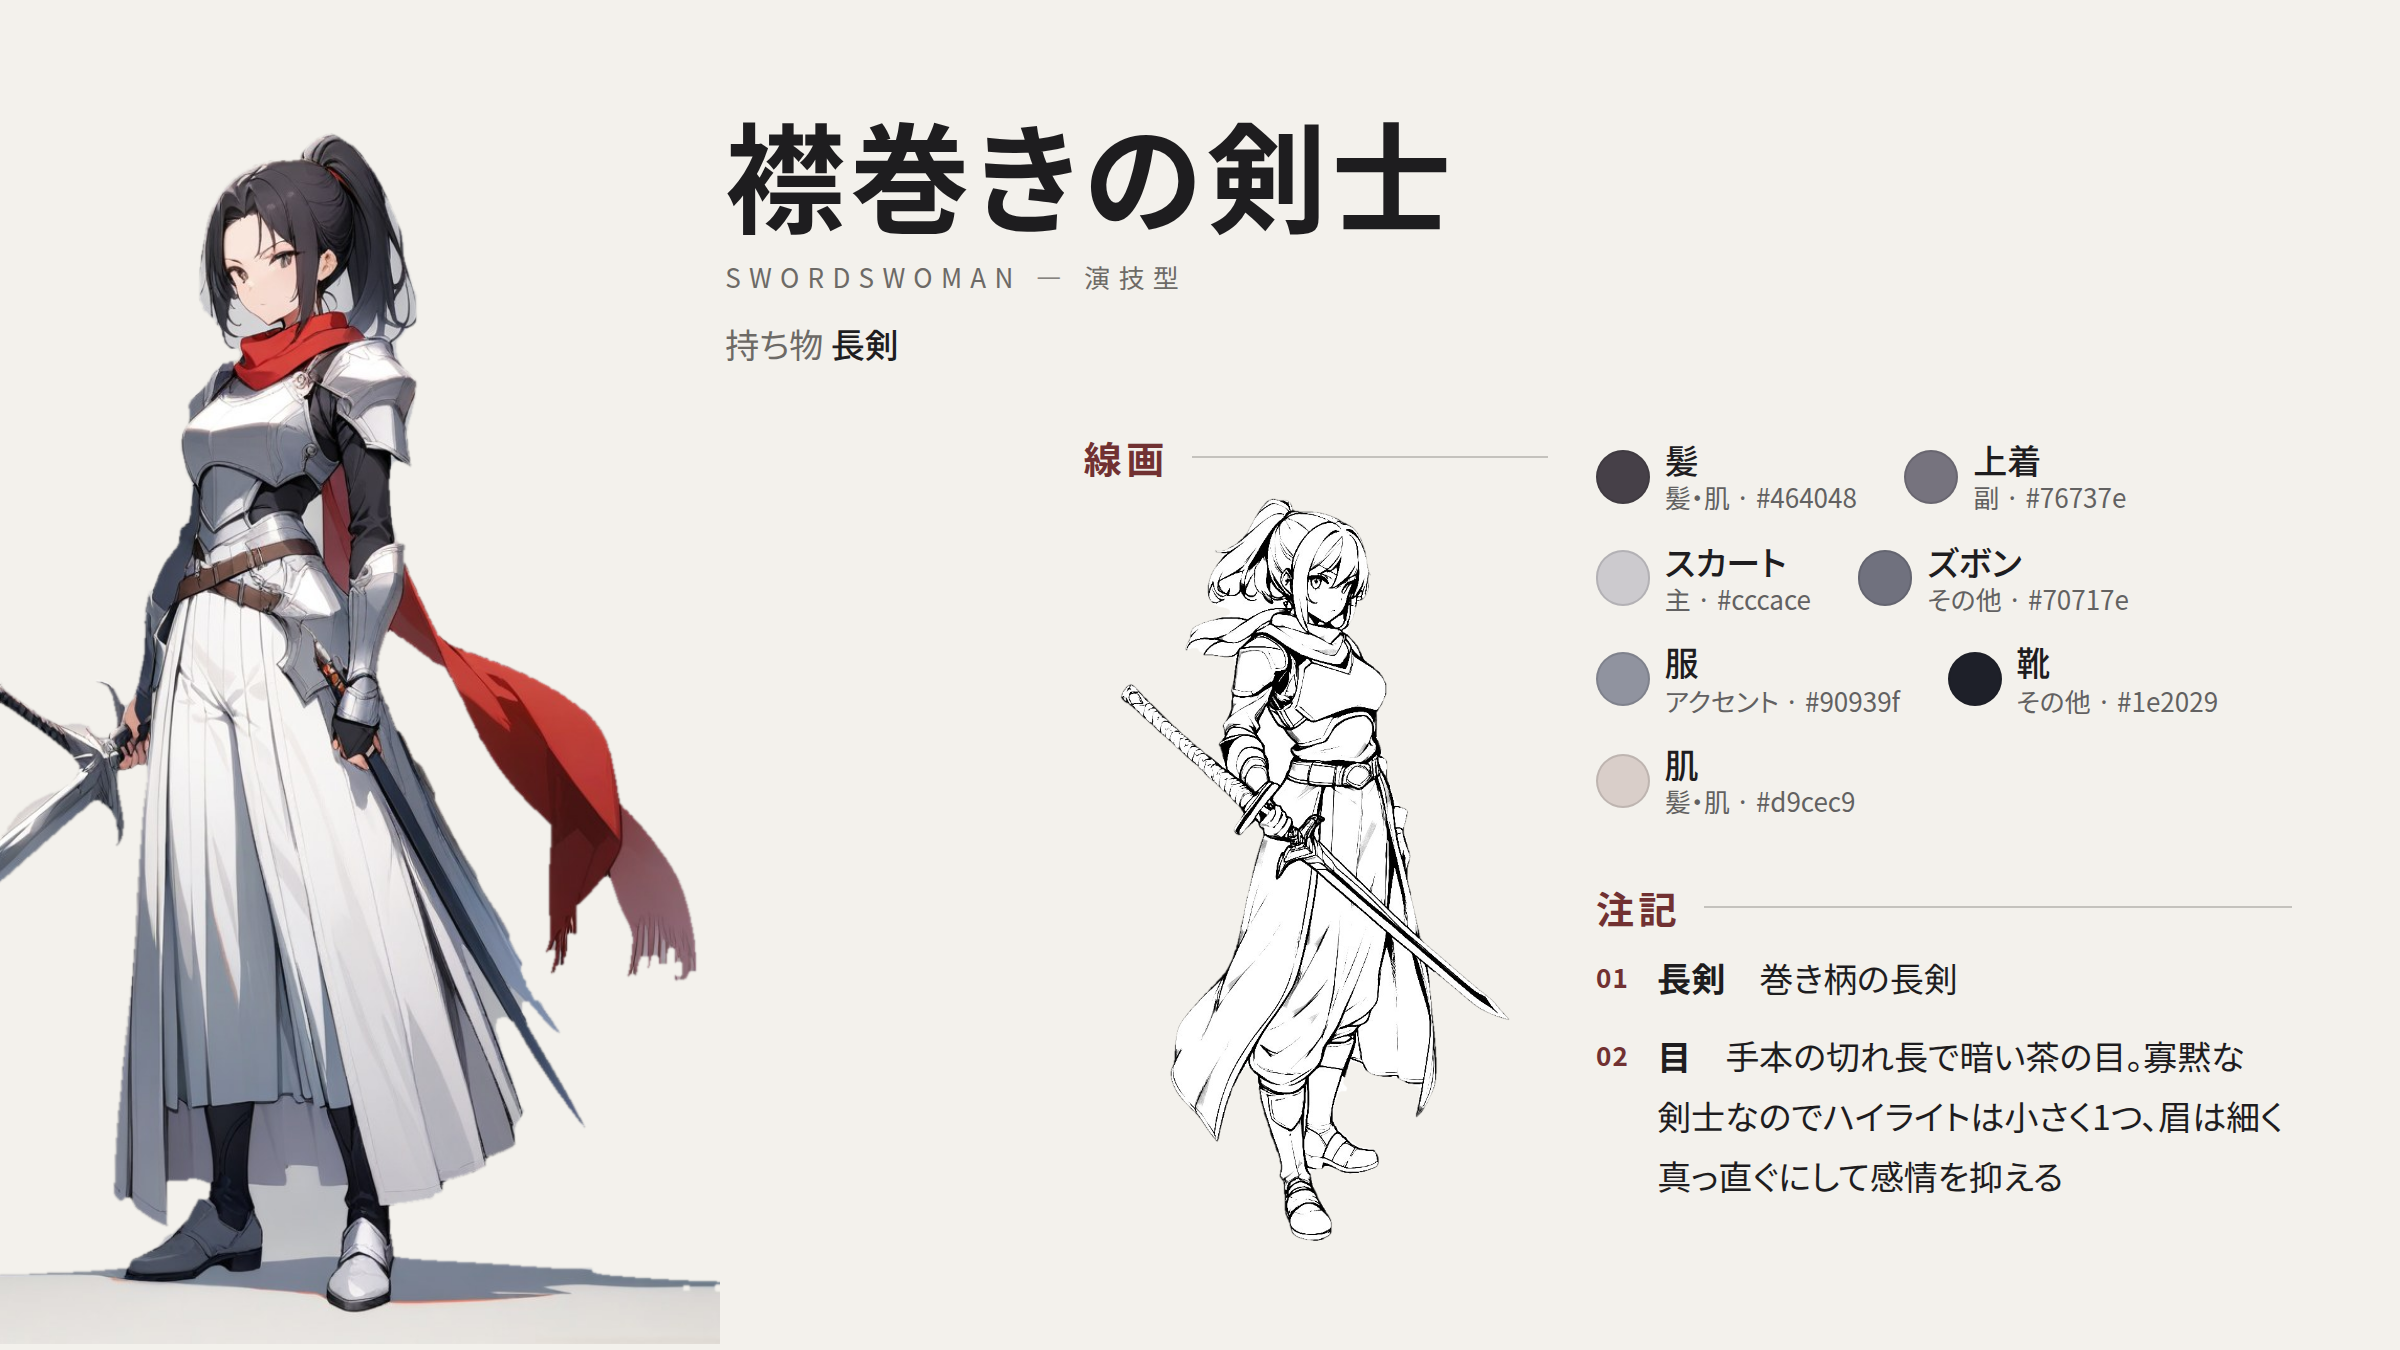
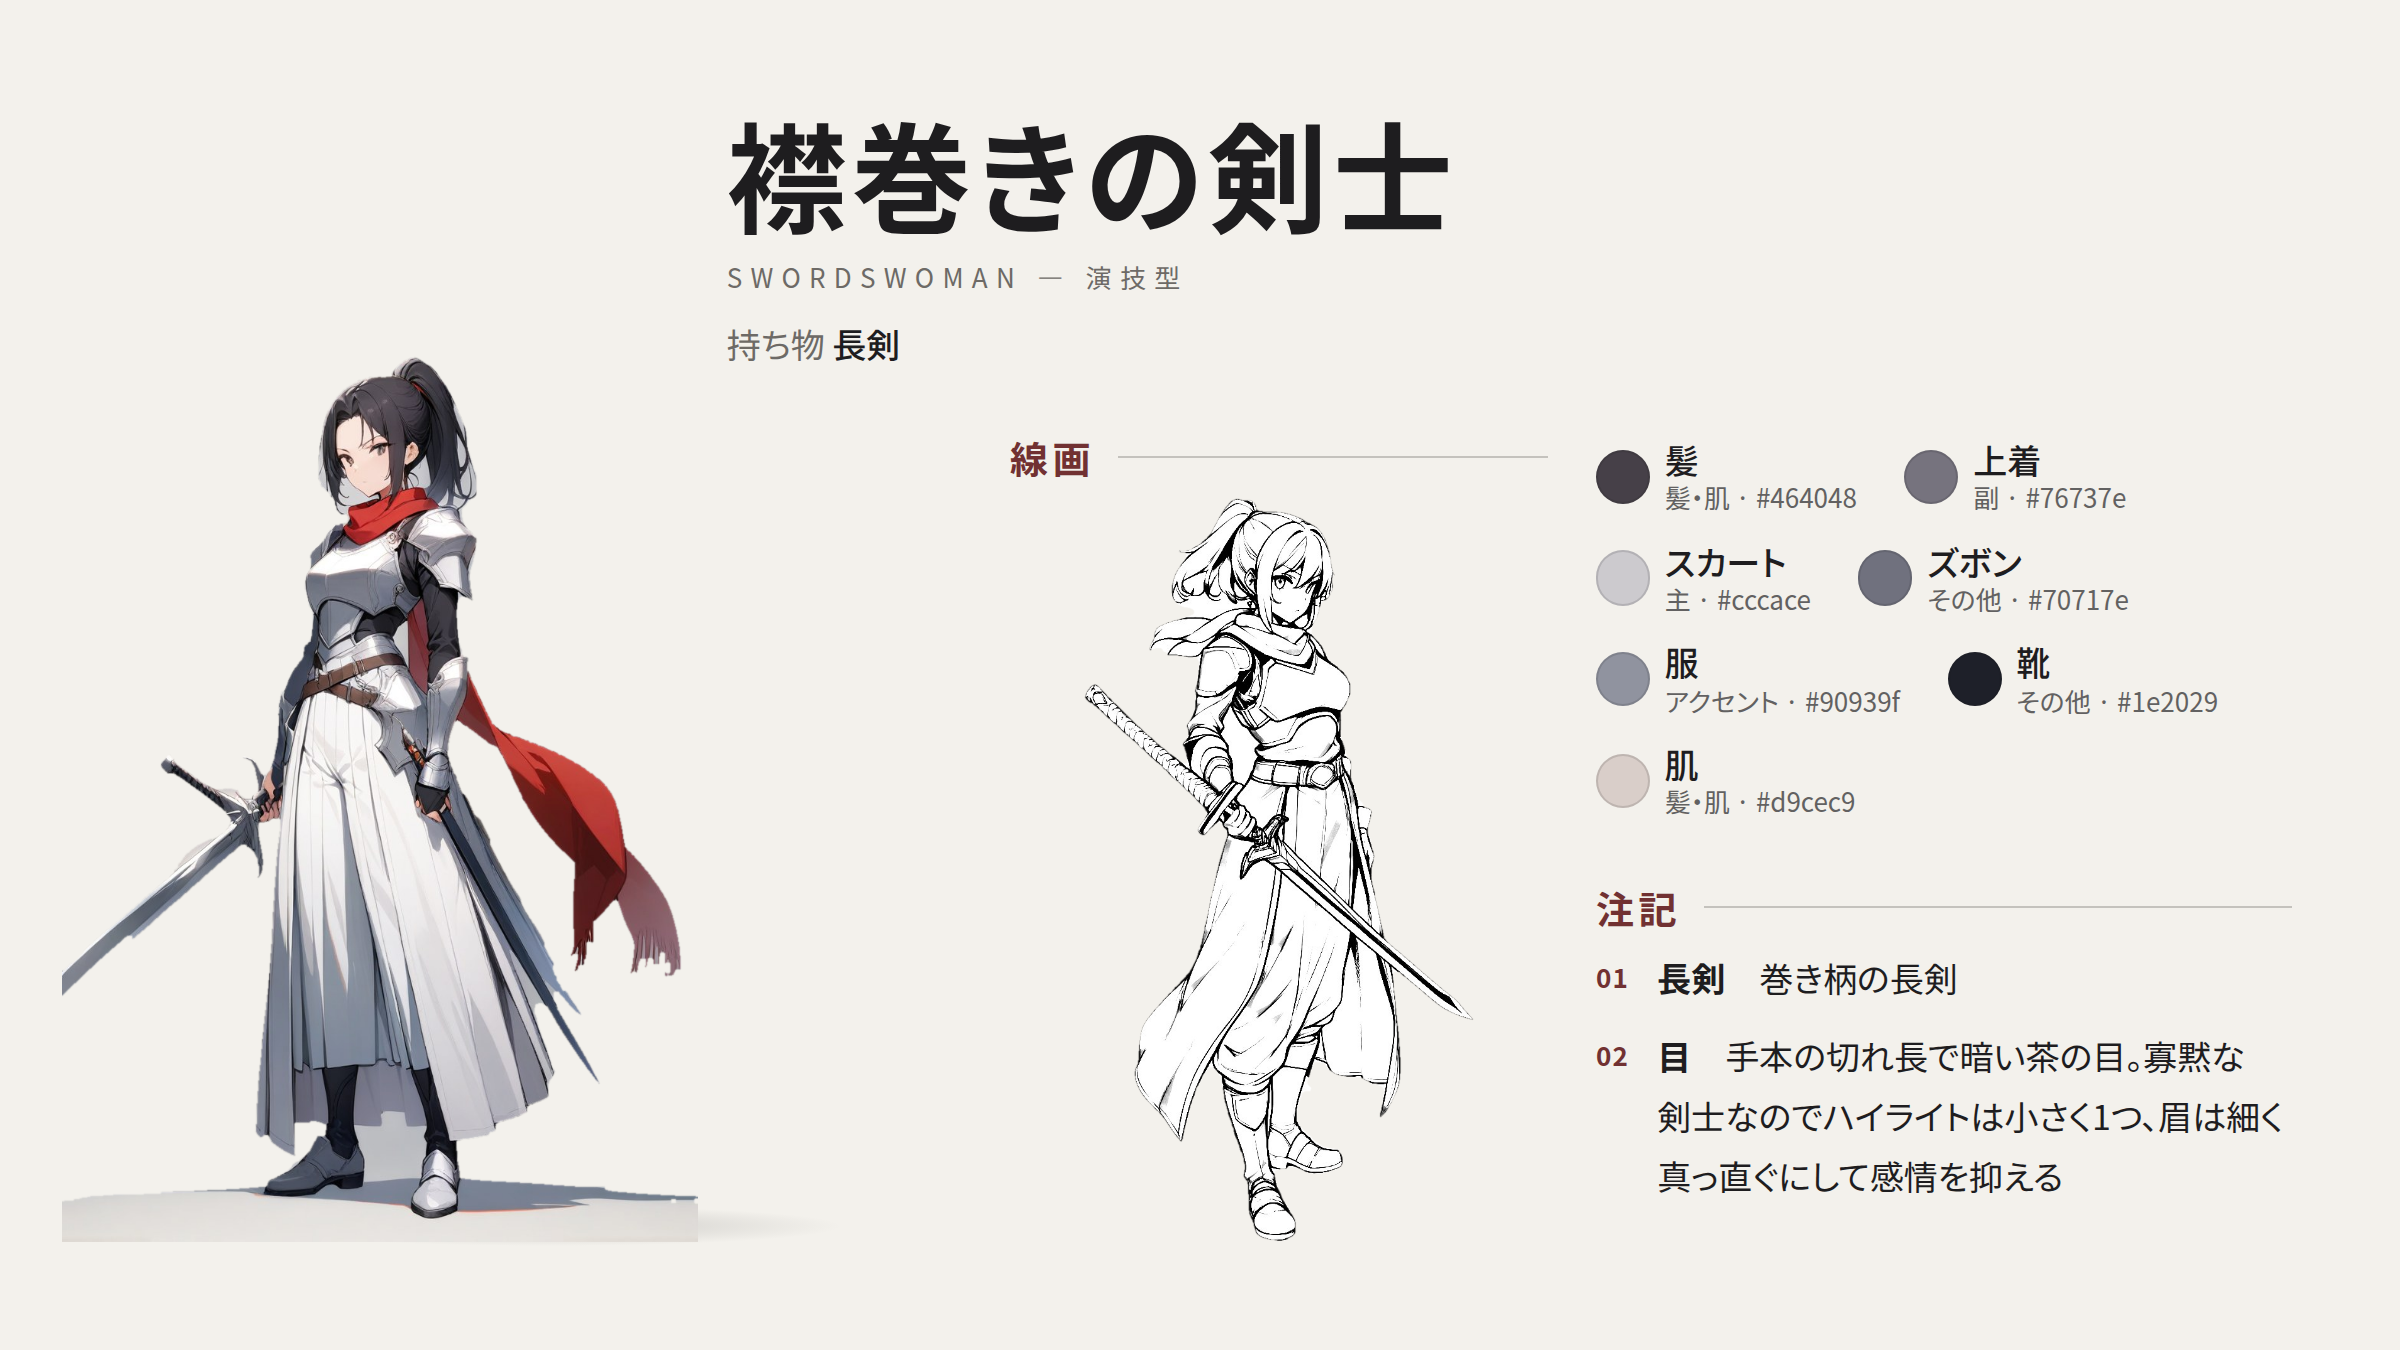
設定画集の全身像は頭から足まで見せる
主役を版面より大きく置いて足元を切っていたが、全身像は全身を見せるための絵なので、
欄の高さに収めて足まで出す。版面の端で切るのは顔の大写しなど部分の絵に限る。

Claude-Session: https://claude.ai/code/session_01SckJ2FC4PhB88prMhjDTEV

diff --git a/tools/gen/sheetlayout.py b/tools/gen/sheetlayout.py
@@ -520,7 +520,7 @@ def render(ident: str, fm: dict, th: dict, out_png: str, out_html: str | None = 
         W, H = fm["size"]
         for p in fm["panels"]:
             if p["kind"] == "hero":
-                p.update(area="hero", scale=1.25, anchor="top", bleed=["bottom", "left"], overlap=True)
+                p.update(area="hero", scale=1, anchor="bottom", overlap=True)   # 全身像は頭から足まで見せる
             if p["kind"] == "header":
                 p.update(area="head", huge=False, pull=0)
     ctx = {"c": c, "ident": ident, "fm": fm, "figs": figs, "hero": _hero(c, figs), "sw": cs._swatches(c), "notes": cs._notes(c),
